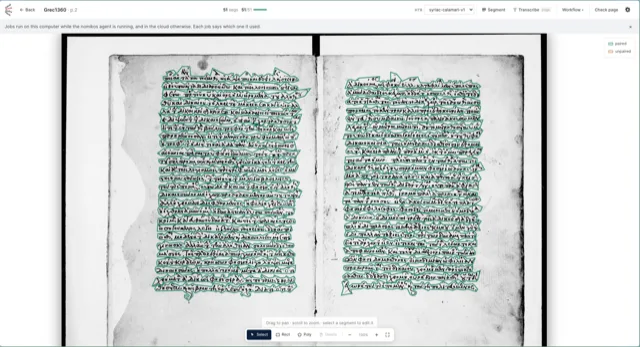
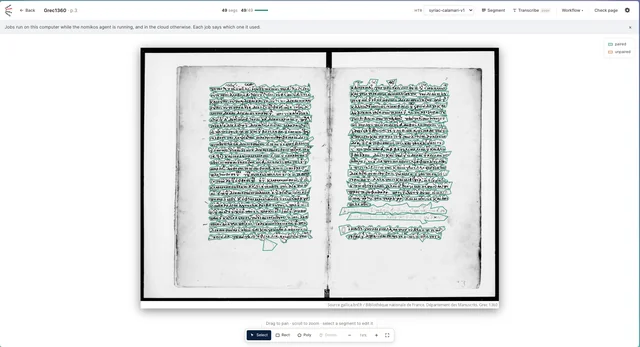
docs: the editor screenshot is the one supplied
Grec1360 p.3 with 49 segments, the shot the README was meant to carry,
rendered at 640/960/1280 for README and landing.

Claude-Session: https://claude.ai/code/session_01LDihuyAegscjes4QLrhk3k

diff --git a/landing/index.html b/landing/index.html
@@ -145,7 +145,7 @@
                 assets/screenshots/editor-1280.webp 1280w
               "
               sizes="(min-width: 56rem) min(48vw, 34rem), calc(100vw - 2rem)"
-              alt="Nomikos page editor open on Grec1360 p.2, a two-page Greek manuscript spread with 51 line segments outlined in green, an HTR model selector in the toolbar, and a paired/unpaired legend"
+              alt="Nomikos page editor open on Grec1360 p.3, a two-page Greek manuscript spread with 49 line segments outlined in green, an HTR model selector in the toolbar, and a paired/unpaired legend"
               width="1280"
               height="695"
               fetchpriority="high"

diff --git a/README.md b/README.md
@@ -1,7 +1,7 @@
 <div align="center">
   <h1>Nomikos</h1>
   <p><strong>Nomikos is an open-source platform for transcribing historical manuscripts you can run in minutes.</strong></p>
-  <img src="landing/assets/screenshots/editor-1280.webp" alt="The Nomikos page editor open on Grec1360 p.2, a two-page Greek manuscript spread with 51 line segments outlined in green, an HTR model selector in the toolbar, and a paired/unpaired legend" width="720">
+  <img src="landing/assets/screenshots/editor-1280.webp" alt="The Nomikos page editor open on Grec1360 p.3, a two-page Greek manuscript spread with 49 line segments outlined in green, an HTR model selector in the toolbar, and a paired/unpaired legend" width="720">
   <p><em>Grec1360 p.2, segmented into 51 lines. Pick an HTR model in the toolbar, let it draft the first pass, then correct, review, share, publish, and export.</em></p>
   <p>
     <a href="#why-nomikos"><strong>Why Nomikos</strong></a> ·
